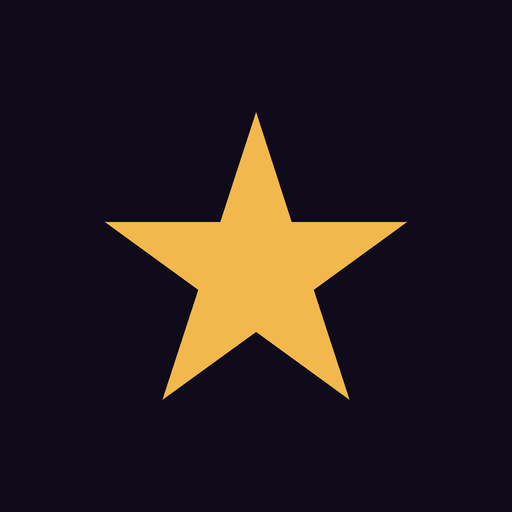
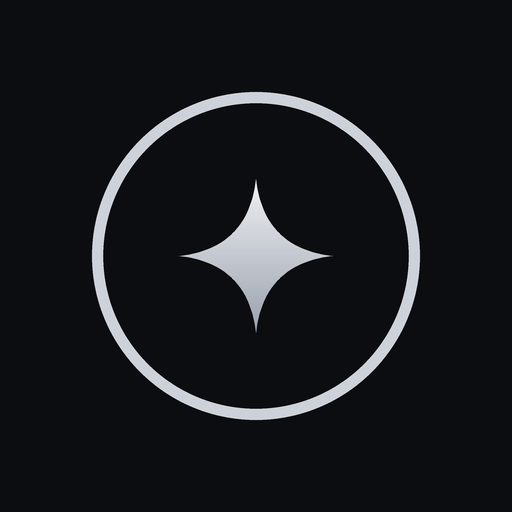
Visual sóbrio em grafite e prata; ícones novos; endereço /exec fixo no link de acesso

Changed region(s): [[0.1562, 0.1562, 0.8438, 0.8438]]

diff --git a/index.html b/index.html
@@ -4,7 +4,7 @@
 <meta charset="utf-8">
 <meta name="viewport" content="width=device-width, initial-scale=1, viewport-fit=cover">
 <title>IRAWÒ Financeiro</title>
-<meta name="theme-color" content="#0f0b1a">
+<meta name="theme-color" content="#0c0d10">
 <meta name="apple-mobile-web-app-capable" content="yes">
 <meta name="mobile-web-app-capable" content="yes">
 <meta name="apple-mobile-web-app-status-bar-style" content="black-translucent">
@@ -14,96 +14,102 @@
 <link rel="icon" href="icon-192.png">
 <style>
 :root{
-  --bg:#0f0b1a; --card:#1a1428; --card2:#241b38; --line:#33284d; --txt:#f3eefc; --mut:#a79cc4;
-  --gold:#f2b84b; --green:#3ecf8e; --red:#ff6b7a; --teal:#38c8d8; --violet:#9b7cff; --coral:#ff9a6b;
-  --r:16px;
+  --bg:#0c0d10; --card:#14161a; --card2:#1b1e23; --line:#262a31; --line2:#363b45;
+  --txt:#e8eaee; --mut:#8b929e; --silver:#cdd2da; --gold:#cdd2da;
+  --green:#86c5a4; --red:#e08a8a; --teal:#9db4cc; --violet:#a8afbf; --coral:#d4a98a;
+  --r:12px;
 }
 *{box-sizing:border-box;-webkit-tap-highlight-color:transparent}
-html,body{margin:0;background:var(--bg);color:var(--txt);font-family:-apple-system,BlinkMacSystemFont,"Segoe UI",Roboto,sans-serif;font-size:16px}
+html,body{margin:0;background:var(--bg);color:var(--txt);font-family:"Inter","SF Pro Text",-apple-system,BlinkMacSystemFont,"Segoe UI",Roboto,sans-serif;font-size:15px;-webkit-font-smoothing:antialiased}
 body{min-height:100vh;padding-bottom:calc(84px + env(safe-area-inset-bottom))}
 button,input,select,textarea{font:inherit;color:inherit}
-header.top{position:sticky;top:0;z-index:20;background:rgba(15,11,26,.92);backdrop-filter:blur(10px);padding:calc(10px + env(safe-area-inset-top)) 16px 10px;display:flex;align-items:center;gap:10px;border-bottom:1px solid var(--line)}
-header.top .logo{font-weight:800;letter-spacing:.08em;font-size:20px;color:var(--gold)}
-header.top .sub{color:var(--mut);font-size:13px;margin-left:auto}
-main{max-width:980px;margin:0 auto;padding:16px}
-h2{font-size:18px;margin:22px 0 10px}
+header.top{position:sticky;top:0;z-index:20;background:rgba(12,13,16,.88);backdrop-filter:blur(14px);padding:calc(12px + env(safe-area-inset-top)) 18px 12px;display:flex;align-items:center;gap:10px;border-bottom:1px solid var(--line)}
+header.top .logo{font-weight:600;letter-spacing:.34em;font-size:14px;background:linear-gradient(90deg,#f3f5f8,#98a0ad);-webkit-background-clip:text;background-clip:text;color:transparent}
+header.top .sub{color:var(--mut);font-size:11px;letter-spacing:.12em;text-transform:uppercase;margin-left:auto}
+main{max-width:980px;margin:0 auto;padding:18px 16px}
+h2{font-size:11px;font-weight:600;letter-spacing:.16em;text-transform:uppercase;color:var(--mut);margin:26px 0 10px}
 h2:first-child{margin-top:4px}
-.card{background:var(--card);border:1px solid var(--line);border-radius:var(--r);padding:14px}
+#modalBox h2,.lock h2{font-size:18px;font-weight:600;letter-spacing:0;text-transform:none;color:var(--txt)}
+.card{background:var(--card);border:1px solid var(--line);border-radius:var(--r);padding:16px;box-shadow:inset 0 1px 0 rgba(255,255,255,.03)}
 .grid{display:grid;gap:12px}
 .kpis{grid-template-columns:repeat(2,1fr)}
 @media(min-width:760px){.kpis{grid-template-columns:repeat(4,1fr)}.two{grid-template-columns:1fr 1fr}.three{grid-template-columns:repeat(3,1fr)}}
-.kpi .l{color:var(--mut);font-size:13px}
-.kpi .v{font-size:22px;font-weight:700;margin-top:4px;font-variant-numeric:tabular-nums}
-.kpi .s{color:var(--mut);font-size:12px;margin-top:2px}
-.pos{color:var(--green)}.neg{color:var(--red)}.gold{color:var(--gold)}.mut{color:var(--mut)}
-.mes{display:flex;align-items:center;justify-content:center;gap:14px;margin-bottom:14px}
-.mes b{min-width:170px;text-align:center}.mes b::first-letter{text-transform:uppercase}
-.icbtn{background:var(--card2);border:1px solid var(--line);border-radius:12px;width:40px;height:40px;font-size:18px;cursor:pointer}
-.btn{background:var(--gold);color:#1b1430;border:0;border-radius:12px;padding:12px 16px;font-weight:700;cursor:pointer}
-.btn.sec{background:var(--card2);color:var(--txt);border:1px solid var(--line)}
-.btn.danger{background:transparent;color:var(--red);border:1px solid var(--red)}
-.btn.sm{padding:8px 12px;font-size:14px;border-radius:10px}
-.btn.green{background:var(--green)}
-.btn[disabled]{opacity:.5}
+.kpi .l{color:var(--mut);font-size:11px;letter-spacing:.1em;text-transform:uppercase}
+.kpi .v{font-size:22px;font-weight:600;margin-top:8px;font-variant-numeric:tabular-nums;letter-spacing:-.01em}
+.kpi .s{color:var(--mut);font-size:12px;margin-top:3px}
+.pos{color:var(--green)}.neg{color:var(--red)}.gold{color:var(--silver)}.mut{color:var(--mut)}
+.mes{display:flex;align-items:center;justify-content:center;gap:14px;margin-bottom:16px}
+.mes b{min-width:170px;text-align:center;font-weight:600;letter-spacing:.02em}
+.mes b::first-letter{text-transform:uppercase}
+.icbtn{background:var(--card2);border:1px solid var(--line2);border-radius:10px;width:38px;height:38px;font-size:18px;cursor:pointer;color:var(--silver)}
+.btn{background:linear-gradient(180deg,#e6e9ee,#b4bac5);color:#101215;border:0;border-radius:10px;padding:12px 18px;font-weight:600;letter-spacing:.01em;cursor:pointer}
+.btn.sec{background:var(--card2);color:var(--txt);border:1px solid var(--line2)}
+.btn.danger{background:transparent;color:var(--red);border:1px solid rgba(224,138,138,.5)}
+.btn.sm{padding:8px 13px;font-size:13px;border-radius:9px}
+.btn.green{background:var(--green);color:#0b1510}
+.btn[disabled]{opacity:.45}
 .row{display:flex;gap:10px;align-items:center}
 .row.wrap{flex-wrap:wrap}
 .sp{flex:1}
-.chip{display:inline-block;padding:3px 9px;border-radius:99px;font-size:12px;background:var(--card2);color:var(--mut);border:1px solid var(--line)}
-.chip.red{color:var(--red);border-color:var(--red)}
-.chip.green{color:var(--green);border-color:var(--green)}
-.chip.gold{color:var(--gold);border-color:var(--gold)}
+.chip{display:inline-block;padding:2px 9px;border-radius:99px;font-size:11px;background:var(--card2);color:var(--mut);border:1px solid var(--line2);letter-spacing:.02em}
+.chip.red{color:var(--red);border-color:rgba(224,138,138,.5)}
+.chip.green{color:var(--green);border-color:rgba(134,197,164,.5)}
+.chip.gold{color:var(--silver);border-color:var(--line2)}
 .tabs{display:flex;gap:8px;margin-bottom:12px;flex-wrap:wrap}
-.tab{padding:8px 14px;border-radius:99px;background:var(--card2);border:1px solid var(--line);cursor:pointer;font-size:14px}
-.tab.on{background:var(--gold);color:#1b1430;border-color:var(--gold);font-weight:700}
-.item{padding:12px 0;border-bottom:1px solid var(--line);display:flex;gap:10px;align-items:center;cursor:pointer}
+.tab{padding:7px 15px;border-radius:99px;background:var(--card2);border:1px solid var(--line2);cursor:pointer;font-size:13px;color:var(--mut)}
+.tab.on{background:#e4e7ec;color:#101215;border-color:#e4e7ec;font-weight:600}
+.item{padding:13px 0;border-bottom:1px solid var(--line);display:flex;gap:10px;align-items:center;cursor:pointer}
 .item:last-child{border-bottom:0}
-.item .t{font-weight:600}
-.item .d{color:var(--mut);font-size:13px}
-.item .val{font-weight:700;font-variant-numeric:tabular-nums;white-space:nowrap}
-.bar{height:8px;border-radius:99px;background:var(--card2);overflow:hidden;margin:8px 0}
-.bar i{display:block;height:100%;background:linear-gradient(90deg,var(--green),var(--teal))}
+.item .t{font-weight:500}
+.item .d{color:var(--mut);font-size:12.5px;margin-top:2px}
+.item .val{font-weight:600;font-variant-numeric:tabular-nums;white-space:nowrap}
+.bar{height:5px;border-radius:99px;background:var(--card2);overflow:hidden;margin:10px 0}
+.bar i{display:block;height:100%;background:linear-gradient(90deg,#7d8696,#dfe3e9)}
 .svc{margin-bottom:12px}
 .svc .head{cursor:pointer}
-.parc{display:flex;align-items:center;gap:10px;padding:10px 0;border-top:1px solid var(--line);font-size:14px}
-label{display:block;font-size:13px;color:var(--mut);margin:10px 0 4px}
-input,select,textarea{width:100%;background:var(--card2);border:1px solid var(--line);border-radius:12px;padding:11px 12px;font-size:16px}
+.parc{display:flex;align-items:center;gap:10px;padding:11px 0;border-top:1px solid var(--line);font-size:14px}
+label{display:block;font-size:11px;letter-spacing:.08em;text-transform:uppercase;color:var(--mut);margin:12px 0 5px}
+input,select,textarea{width:100%;background:var(--card2);border:1px solid var(--line2);border-radius:10px;padding:11px 12px;font-size:16px}
+input:focus,select:focus,textarea:focus{outline:none;border-color:#8b929e}
 textarea{min-height:90px;resize:vertical}
 .field2{display:grid;grid-template-columns:1fr 1fr;gap:10px}
 .tiles{display:grid;grid-template-columns:repeat(2,1fr);gap:12px}
-.tile{background:var(--card);border:1px solid var(--line);border-radius:var(--r);padding:20px 10px;text-align:center;cursor:pointer;font-weight:600}
-.tile .e{font-size:34px;display:block;margin-bottom:6px}
-.tile small{display:block;color:var(--mut);font-weight:400;margin-top:2px}
-.tile.rec{border-color:var(--red);background:#2a1420}
-nav.bottom{position:fixed;bottom:0;left:0;right:0;z-index:30;background:rgba(21,16,36,.96);backdrop-filter:blur(12px);border-top:1px solid var(--line);display:flex;justify-content:space-around;padding:6px 6px calc(8px + env(safe-area-inset-bottom))}
-nav.bottom button{background:none;border:0;color:var(--mut);display:flex;flex-direction:column;align-items:center;gap:3px;font-size:11px;padding:6px 10px;cursor:pointer;min-width:58px}
-nav.bottom button.on{color:var(--gold)}
-nav.bottom svg{width:24px;height:24px;stroke:currentColor;fill:none;stroke-width:2;stroke-linecap:round;stroke-linejoin:round}
-nav.bottom button.mais{background:var(--gold);color:#1b1430;border-radius:50%;width:54px;height:54px;min-width:54px;margin-top:-22px;justify-content:center;box-shadow:0 6px 18px rgba(242,184,75,.35)}
-#modal{position:fixed;inset:0;z-index:50;background:rgba(5,3,12,.7);display:none;align-items:flex-end;justify-content:center}
+.tile{background:var(--card);border:1px solid var(--line);border-radius:var(--r);padding:22px 10px 18px;text-align:center;cursor:pointer;font-weight:500;box-shadow:inset 0 1px 0 rgba(255,255,255,.03)}
+.tile:active{background:var(--card2)}
+.tile .e{display:block;width:30px;height:30px;margin:0 auto 12px}
+.tile .e svg{width:30px;height:30px;stroke:var(--silver);fill:none;stroke-width:1.5;stroke-linecap:round;stroke-linejoin:round}
+.tile small{display:block;color:var(--mut);font-weight:400;font-size:12px;margin-top:3px}
+nav.bottom{position:fixed;bottom:0;left:0;right:0;z-index:30;background:rgba(16,17,21,.94);backdrop-filter:blur(14px);border-top:1px solid var(--line);display:flex;justify-content:space-around;padding:6px 6px calc(8px + env(safe-area-inset-bottom))}
+nav.bottom button{background:none;border:0;color:var(--mut);display:flex;flex-direction:column;align-items:center;gap:4px;font-size:10.5px;letter-spacing:.04em;padding:6px 10px;cursor:pointer;min-width:58px}
+nav.bottom button.on{color:var(--silver)}
+nav.bottom svg{width:22px;height:22px;stroke:currentColor;fill:none;stroke-width:1.6;stroke-linecap:round;stroke-linejoin:round}
+nav.bottom button.mais{background:linear-gradient(180deg,#eceef2,#a9b0bc);color:#101215;border-radius:50%;width:52px;height:52px;min-width:52px;margin-top:-20px;justify-content:center;box-shadow:0 6px 18px rgba(0,0,0,.55),0 0 0 4px var(--bg)}
+#modal{position:fixed;inset:0;z-index:50;background:rgba(4,5,7,.72);display:none;align-items:flex-end;justify-content:center}
 #modal.on{display:flex}
-#modal .box{background:var(--card);border-radius:20px 20px 0 0;width:100%;max-width:560px;max-height:92vh;overflow:auto;padding:18px 16px calc(20px + env(safe-area-inset-bottom));border:1px solid var(--line)}
-@media(min-width:760px){#modal{align-items:center}#modal .box{border-radius:20px}}
-#toast{position:fixed;left:50%;bottom:calc(100px + env(safe-area-inset-bottom));transform:translateX(-50%);background:#fff;color:#1b1430;padding:10px 16px;border-radius:12px;font-weight:600;z-index:80;display:none;max-width:90vw}
-#toast.err{background:var(--red);color:#fff}
-.lock{position:fixed;inset:0;z-index:100;background:var(--bg);display:flex;flex-direction:column;align-items:center;justify-content:center;padding:24px;gap:12px;text-align:center}
-.lock .star{font-size:64px;color:var(--gold)}
+#modal .box{background:var(--card);border-radius:16px 16px 0 0;width:100%;max-width:560px;max-height:92vh;overflow:auto;padding:20px 18px calc(22px + env(safe-area-inset-bottom));border:1px solid var(--line2)}
+@media(min-width:760px){#modal{align-items:center}#modal .box{border-radius:16px}}
+#toast{position:fixed;left:50%;bottom:calc(100px + env(safe-area-inset-bottom));transform:translateX(-50%);background:#e8eaee;color:#101215;padding:10px 16px;border-radius:10px;font-weight:600;font-size:14px;z-index:80;display:none;max-width:90vw;box-shadow:0 8px 24px rgba(0,0,0,.5)}
+#toast.err{background:#d98080;color:#150a0a}
+.lock{position:fixed;inset:0;z-index:100;background:radial-gradient(1200px 600px at 50% -10%,#1b1e25,var(--bg));display:flex;flex-direction:column;align-items:center;justify-content:center;padding:24px;gap:14px;text-align:center}
+.lock .mark{font-size:26px;font-weight:600;letter-spacing:.42em;margin-right:-.42em;background:linear-gradient(90deg,#f3f5f8,#98a0ad);-webkit-background-clip:text;background-clip:text;color:transparent;margin-bottom:6px}
 .lock input{max-width:320px;text-align:center}
-.rev{border:1px solid var(--gold);border-radius:var(--r);padding:14px;margin-bottom:12px;background:var(--card)}
-.spin{width:22px;height:22px;border:3px solid var(--line);border-top-color:var(--gold);border-radius:50%;animation:g 0.8s linear infinite;display:inline-block;vertical-align:middle}
+.rev{border:1px solid var(--line2);border-left:3px solid var(--silver);border-radius:var(--r);padding:16px;margin-bottom:12px;background:var(--card)}
+.spin{width:20px;height:20px;border:2px solid var(--line2);border-top-color:var(--silver);border-radius:50%;animation:g .8s linear infinite;display:inline-block;vertical-align:middle}
 @keyframes g{to{transform:rotate(360deg)}}
-.rec-dot{width:12px;height:12px;border-radius:50%;background:var(--red);display:inline-block;animation:p 1s infinite}
+.rec-dot{width:11px;height:11px;border-radius:50%;background:var(--red);display:inline-block;animation:p 1s infinite}
 @keyframes p{50%{opacity:.25}}
 canvas{max-width:100%}
 .grid>*,.row>*{min-width:0}
 .kpi .v{overflow-wrap:anywhere}
 @media(max-width:360px){.kpi .v{font-size:18px}main{padding:12px}}
-.empty{text-align:center;color:var(--mut);padding:26px 10px}
-.hint{font-size:13px;color:var(--mut);line-height:1.45}
-details summary{cursor:pointer;color:var(--gold);margin:8px 0}
+.empty{text-align:center;color:var(--mut);padding:28px 10px;line-height:1.5}
+.hint{font-size:13px;color:var(--mut);line-height:1.5}
+details summary{cursor:pointer;color:var(--silver);margin:8px 0}
+a{color:var(--silver)}
 </style>
 </head>
 <body>
-<header class="top"><span class="logo">★ IRAWÒ</span><span class="sub" id="subtitulo">Controle financeiro</span></header>
+<header class="top"><span class="logo">IRAWÒ</span><span class="sub" id="subtitulo">Controle financeiro</span></header>
 <main id="view"></main>
 <nav class="bottom" id="nav"></nav>
 <div id="modal"><div class="box" id="modalBox"></div></div>
@@ -226,7 +232,7 @@ function render() {
   const v = $('#view');
   if (!cfg && view !== 'ajustes') { view = 'ajustes'; renderNav(); }
   v.innerHTML = ({ inicio: vInicio, receber: vReceber, lancar: vLancar, extrato: vExtrato, ajustes: vAjustes }[view])();
-  $('#subtitulo').textContent = cfg && cfg.url === 'demo' ? 'MODO DEMONSTRAÇÃO' : 'Controle financeiro';
+  $('#subtitulo').textContent = cfg && cfg.url === 'demo' ? 'Modo demonstração' : 'Financeiro';
   if (view === 'inicio') desenharGraficos();
 }
 
@@ -237,9 +243,9 @@ function vInicio() {
   const hj = L.hojeDe(), r = L.resumo(rows, mesSel, hj);
   const ultimos = rows.slice().sort((a, b) => String(b.data_pagamento || b.vencimento).localeCompare(String(a.data_pagamento || a.vencimento))).filter(x => x.status === 'pago').slice(0, 6);
   let alertas = '';
-  if (r.vencidoReceber > 0) alertas += `<div class="card" style="border-color:var(--red);margin-bottom:10px">⚠ <b class="neg">${brl(r.vencidoReceber)}</b> a receber está <b>atrasado</b>. <a href="#" data-go="receber" style="color:var(--gold)">Ver contas</a></div>`;
-  if (r.vencidoPagar > 0) alertas += `<div class="card" style="border-color:var(--coral);margin-bottom:10px">⚠ <b>${brl(r.vencidoPagar)}</b> de contas a pagar vencidas.</div>`;
-  if (r.proximos7Receber > 0) alertas += `<div class="card" style="margin-bottom:10px">📅 <b class="gold">${brl(r.proximos7Receber)}</b> vence nos próximos 7 dias.</div>`;
+  if (r.vencidoReceber > 0) alertas += `<div class="card" style="border-color:var(--red);margin-bottom:10px"><b class="neg">${brl(r.vencidoReceber)}</b> a receber está <b>atrasado</b>. <a href="#" data-go="receber" style="color:var(--gold)">Ver contas</a></div>`;
+  if (r.vencidoPagar > 0) alertas += `<div class="card" style="border-color:var(--coral);margin-bottom:10px"><b>${brl(r.vencidoPagar)}</b> de contas a pagar vencidas.</div>`;
+  if (r.proximos7Receber > 0) alertas += `<div class="card" style="margin-bottom:10px"><b class="gold">${brl(r.proximos7Receber)}</b> vence nos próximos 7 dias.</div>`;
   return `
   <div class="mes"><button class="icbtn" data-mes="-1">‹</button><b>${L.rotuloMes(mesSel)}</b><button class="icbtn" data-mes="1">›</button></div>
   ${alertas}
@@ -269,22 +275,22 @@ function itemHtml(r) {
   const atrasado = r.status === 'pendente' && r.vencimento < L.hojeDe();
   return `<div class="item" data-edit="${esc(r.id)}"><div class="sp"><div class="t">${esc(r.descricao || r.categoria)}</div><div class="d">${esc(r.pessoa ? r.pessoa + ' · ' : '')}${esc(data)}${parc}${atrasado ? ' <span class="chip red">atrasada</span>' : ''}${r.status === 'pendente' && !atrasado ? ' <span class="chip">pendente</span>' : ''}</div></div><div class="val ${rec ? 'pos' : 'neg'}">${rec ? '+' : '−'} ${brl(r.valor)}</div></div>`;
 }
-const PALETA = ['#f2b84b', '#38c8d8', '#ff9a6b', '#9b7cff', '#3ecf8e', '#ff6b7a', '#7dd3fc', '#c4b5fd', '#fda4af'];
+const PALETA = ['#d5d9e0', '#9aa3b2', '#6f7a8b', '#b9c0cc', '#4d5666', '#e6e9ee', '#8590a1', '#3b4351', '#a5aebb'];
 function desenharGraficos() {
   if (typeof Chart === 'undefined') return;
-  Chart.defaults.color = '#a79cc4'; Chart.defaults.borderColor = '#33284d';
+  Chart.defaults.color = '#8b929e'; Chart.defaults.borderColor = '#262a31'; Chart.defaults.font.size = 11; Chart.defaults.font.family = '-apple-system, "Segoe UI", Roboto, sans-serif';
   const s = L.serieMeses(rows, mesSel, 6);
   charts.push(new Chart($('#gSerie'), { type: 'bar', data: { labels: s.meses.map(L.rotuloMesCurto), datasets: [
-    { label: 'Levantado', data: s.recebido, backgroundColor: '#3ecf8e', borderRadius: 6 },
-    { label: 'Gastos', data: s.gasto, backgroundColor: '#ff6b7a', borderRadius: 6 }] },
+    { label: 'Levantado', data: s.recebido, backgroundColor: '#86c5a4', borderRadius: 4 },
+    { label: 'Gastos', data: s.gasto, backgroundColor: '#c98080', borderRadius: 4 }] },
     options: { maintainAspectRatio: false, plugins: { legend: { position: 'bottom' } }, scales: { y: { ticks: { callback: v => 'R$ ' + v } } } } }));
   const r = L.resumo(rows, mesSel), cats = Object.entries(r.porCategoria).sort((a, b) => b[1] - a[1]);
-  if (cats.length) charts.push(new Chart($('#gCat'), { type: 'doughnut', data: { labels: cats.map(c => c[0]), datasets: [{ data: cats.map(c => c[1]), backgroundColor: PALETA, borderColor: '#1a1428', borderWidth: 2 }] },
+  if (cats.length) charts.push(new Chart($('#gCat'), { type: 'doughnut', data: { labels: cats.map(c => c[0]), datasets: [{ data: cats.map(c => c[1]), backgroundColor: PALETA, borderColor: '#14161a', borderWidth: 2 }] },
     options: { maintainAspectRatio: false, plugins: { legend: { position: 'right', labels: { boxWidth: 12, font: { size: 11 } } }, tooltip: { callbacks: { label: c => `${c.label}: ${brl(c.parsed)}` } } } } }));
   else $('#gCat').parentElement.innerHTML = '<div class="empty">Sem gastos pagos neste mês.</div>';
   const p = L.previsao(rows, L.mesDe(L.hojeDe()), 6);
   const labels = ['Atrasado', ...p.meses.map(L.rotuloMesCurto)], vals = [p.atrasado, ...p.valores];
-  charts.push(new Chart($('#gPrev'), { type: 'bar', data: { labels, datasets: [{ data: vals, backgroundColor: vals.map((_, i) => i === 0 ? '#ff6b7a' : '#f2b84b'), borderRadius: 6 }] },
+  charts.push(new Chart($('#gPrev'), { type: 'bar', data: { labels, datasets: [{ data: vals, backgroundColor: vals.map((_, i) => i === 0 ? '#c98080' : '#aeb5c1'), borderRadius: 4 }] },
     options: { maintainAspectRatio: false, plugins: { legend: { display: false } }, scales: { y: { ticks: { callback: v => 'R$ ' + v } } } } }));
 }
 
@@ -302,7 +308,7 @@ function vReceber() {
     ${kpi('Próximos 7 dias', p7, '')}
   </div>
   <div class="row" style="margin:14px 0 6px"><h2 style="margin:0">${rec ? 'Serviços e parcelas' : 'Contas parceladas'}</h2><span class="sp"></span><label style="margin:0;display:flex;gap:6px;align-items:center"><input type="checkbox" id="chkQ" ${verQuitados ? 'checked' : ''} style="width:auto"> mostrar quitados</label></div>
-  ${gs.length ? gs.map(svcHtml).join('') : `<div class="empty">Nada ${rec ? 'a receber' : 'a pagar'} por enquanto. 🎉<br>Lance um serviço parcelado no <b>+</b>.</div>`}`;
+  ${gs.length ? gs.map(svcHtml).join('') : `<div class="empty">Nada ${rec ? 'a receber' : 'a pagar'} por enquanto.<br>Lance um serviço parcelado no <b>+</b>.</div>`}`;
 }
 function svcHtml(g) {
   const aberto = abertos.has(g.gid);
@@ -344,10 +350,10 @@ function vLancar() {
   return `
   <h2>Como você quer lançar?</h2>
   <div class="tiles">
-    <div class="tile" data-lanc="audio"><span class="e">🎤</span>Falar<small>"Recebi 500 da Maria…"</small></div>
-    <div class="tile" data-lanc="foto"><span class="e">📷</span>Foto<small>nota, recibo, comprovante</small></div>
-    <div class="tile" data-lanc="video"><span class="e">🎥</span>Vídeo<small>curto, até ~20 MB</small></div>
-    <div class="tile" data-lanc="texto"><span class="e">✍</span>Escrever<small>digite e a IA organiza</small></div>
+    <div class="tile" data-lanc="audio"><span class="e"><svg viewBox="0 0 24 24"><rect x="9" y="3" width="6" height="11" rx="3"/><path d="M5 11a7 7 0 0 0 14 0M12 18v3"/></svg></span>Falar<small>"Recebi 500 da Maria…"</small></div>
+    <div class="tile" data-lanc="foto"><span class="e"><svg viewBox="0 0 24 24"><path d="M4 8h3l2-2h6l2 2h3v11H4z"/><circle cx="12" cy="13" r="3.5"/></svg></span>Foto<small>nota, recibo, comprovante</small></div>
+    <div class="tile" data-lanc="video"><span class="e"><svg viewBox="0 0 24 24"><rect x="3" y="6" width="13" height="12" rx="2"/><path d="M16 10l5-3v10l-5-3z"/></svg></span>Vídeo<small>curto, até ~20 MB</small></div>
+    <div class="tile" data-lanc="texto"><span class="e"><svg viewBox="0 0 24 24"><path d="M4 20h4L19 9l-4-4L4 16z"/></svg></span>Escrever<small>digite e a IA organiza</small></div>
   </div>
   <div class="row" style="margin-top:14px"><button class="btn sec sp" data-lanc="manual">Lançamento manual</button></div>
   <div class="card hint" style="margin-top:14px"><b>Exemplos para falar ou escrever:</b><br>
@@ -367,7 +373,7 @@ function itemRevisaoHtml(it, i) {
   const cats = L.CATEGORIAS[it.tipo === 'despesa' ? 'despesa' : 'receita'];
   const catsOk = cats.includes(it.categoria) ? cats : [it.categoria, ...cats].filter(Boolean);
   return `<div class="rev" data-i="${i}">
-    <div class="row"><b>${it.tipo === 'despesa' ? '🔴 Gasto' : '🟢 Receita'}</b><span class="sp"></span><button class="btn danger sm" data-rdel="${i}">Remover</button></div>
+    <div class="row"><b class="${it.tipo === 'despesa' ? 'neg' : 'pos'}">${it.tipo === 'despesa' ? 'Gasto' : 'Receita'}</b><span class="sp"></span><button class="btn danger sm" data-rdel="${i}">Remover</button></div>
     <div class="tabs" style="margin-top:8px"><div class="tab ${it.tipo !== 'despesa' ? 'on' : ''}" data-rset="${i}:tipo:receita">Receita</div><div class="tab ${it.tipo === 'despesa' ? 'on' : ''}" data-rset="${i}:tipo:despesa">Gasto</div></div>
     <label>Descrição</label><input data-rf="${i}:descricao" value="${esc(it.descricao)}">
     <label>${it.tipo === 'despesa' ? 'Fornecedor' : 'Cliente'}</label><input data-rf="${i}:pessoa" value="${esc(it.pessoa)}">
@@ -383,7 +389,7 @@ function itemRevisaoHtml(it, i) {
 }
 function vRevisao() {
   return `<h2>Confira antes de salvar</h2>
-  ${revisao.mensagem ? `<div class="card hint" style="margin-bottom:12px">🤖 ${esc(revisao.mensagem)}</div>` : ''}
+  ${revisao.mensagem ? `<div class="card hint" style="margin-bottom:12px">${esc(revisao.mensagem)}</div>` : ''}
   ${revisao.itens.map(itemRevisaoHtml).join('') || '<div class="empty">Nenhum lançamento reconhecido.</div>'}
   <div class="row wrap"><button class="btn sec" data-radd>+ Outro item</button><span class="sp"></span><button class="btn sec" data-rcancel>Cancelar</button><button class="btn green" data-rsave ${revisao.itens.length ? '' : 'disabled'}>Salvar ${revisao.itens.length > 1 ? 'tudo' : ''}</button></div>`;
 }
@@ -393,7 +399,7 @@ function itemVazio(tipo) {
 function vSugestaoBaixa() {
   const b = sugestaoBaixa;
   return `<h2>Dar baixa em qual parcela?</h2>
-  <div class="card hint" style="margin-bottom:12px">🤖 ${esc(b.mensagem || 'Encontrei estas parcelas pendentes.')}</div>
+  <div class="card hint" style="margin-bottom:12px">${esc(b.mensagem || 'Encontrei estas parcelas pendentes.')}</div>
   ${b.candidatos.length ? b.candidatos.map(p => `<div class="card" style="margin-bottom:10px"><b>${esc(p.descricao)}</b> <span class="mut">· ${esc(p.pessoa)}</span><div class="mut" style="font-size:13px">Parcela ${p.parcela}/${p.total_parcelas} · vence ${L.fmtBR(p.vencimento)}</div>
     <div class="row" style="margin-top:8px"><b class="gold sp">${brl(p.valor)}</b><button class="btn green sm" data-baixa="${esc(p.id)}" data-sug="1">Dar baixa</button></div></div>`).join('') : '<div class="empty">Não achei parcela pendente com esses dados. Veja em <b>Contas</b>.</div>'}
   <button class="btn sec" data-rcancel>Voltar</button>`;
@@ -485,7 +491,7 @@ function vAjustes() {
   return `
   <h2>Conexão com a planilha</h2>
   <div class="card">
-    ${cfg ? `<p class="${cfg.url === 'demo' ? 'gold' : 'pos'}" style="margin-top:0">${cfg.url === 'demo' ? '🧪 Modo demonstração (dados só neste aparelho)' : '✅ Conectado à planilha IRAWÒ'}</p>` : '<p class="neg" style="margin-top:0">Ainda não conectado.</p>'}
+    ${cfg ? `<p class="${cfg.url === 'demo' ? 'gold' : 'pos'}" style="margin-top:0">${cfg.url === 'demo' ? 'Modo demonstração (dados só neste aparelho)' : 'Conectado à planilha IRAWÒ'}</p>` : '<p class="neg" style="margin-top:0">Ainda não conectado.</p>'}
     <details ${cfg ? '' : 'open'}><summary>Configurar manualmente</summary>
       <label>Endereço do script (URL)</label><input id="cfgUrl" value="${esc(cfg && cfg.url !== 'demo' ? cfg.url : '')}" placeholder="https://script.google.com/macros/s/…/exec">
       <label>Código de acesso (token)</label><input id="cfgTok" type="password" value="${esc(cfg && cfg.url !== 'demo' ? cfg.token : '')}">
@@ -508,8 +514,8 @@ function vAjustes() {
 }
 async function atualizaStatusIA() {
   const el = $('#statusIA'); if (!el || !cfg) return;
-  try { const j = await api('status'); el.innerHTML = j.temChave ? '✅ Chave configurada (' + esc(j.modelo) + ')' : '⚠ Chave ainda não configurada.'; }
-  catch (e) { el.textContent = '⚠ ' + e.message; }
+  try { const j = await api('status'); el.innerHTML = j.temChave ? 'Chave configurada (' + esc(j.modelo) + ')' : 'Chave ainda não configurada.'; }
+  catch (e) { el.textContent = e.message; }
 }
 async function hashSenha(pw, saltB64) {
   const k = await crypto.subtle.importKey('raw', new TextEncoder().encode(pw), 'PBKDF2', false, ['deriveBits']);
@@ -543,11 +549,11 @@ function telaBloqueio() {
   $('#view').inert = $('#nav').inert = bloqueado;
   if (!bloqueado) { host.innerHTML = ''; return; }
   const temBio = a && a.cred && window.PublicKeyCredential;
-  host.innerHTML = a ? `<div class="lock"><div class="star">★</div><h2 style="margin:0">IRAWÒ</h2><div class="mut">Digite sua senha</div>
+  host.innerHTML = a ? `<div class="lock"><div class="mark">IRAWÒ</div><div class="mut">Digite sua senha</div>
       <input id="lkPw" type="password" autocomplete="current-password" placeholder="senha"><div id="lkErr" class="neg" style="min-height:20px"></div>
       <button class="btn" id="lkOk" style="min-width:200px">Entrar</button>
-      ${temBio ? '<button class="btn sec" id="lkBio" style="min-width:200px">🔐 Digital / rosto</button>' : ''}</div>`
-    : `<div class="lock"><div class="star">★</div><h2 style="margin:0">Bem-vindo ao IRAWÒ</h2><div class="mut" style="max-width:320px">Crie uma senha para proteger o app neste aparelho.</div>
+      ${temBio ? '<button class="btn sec" id="lkBio" style="min-width:200px">Digital / rosto</button>' : ''}</div>`
+    : `<div class="lock"><div class="mark">IRAWÒ</div><h2 style="margin:0">Bem-vindo</h2><div class="mut" style="max-width:320px">Crie uma senha para proteger o app neste aparelho.</div>
       <input id="lkPw" type="password" autocomplete="new-password" placeholder="nova senha (mín. 4 caracteres)">
       <input id="lkPw2" type="password" autocomplete="new-password" placeholder="repita a senha"><div id="lkErr" class="neg" style="min-height:20px"></div>
       <button class="btn" id="lkNovo" style="min-width:200px">Criar senha</button></div>`;
@@ -647,7 +653,7 @@ document.addEventListener('click', async e => {
   }
   if (t.id === 'salvaCfg') {
     const url = $('#cfgUrl').value.trim(), token = $('#cfgTok').value.trim();
-    if (!/^https:\/\/script\.google\.com\//.test(url) || !token) return toast('Informe a URL do script e o token.', true);
+    if (!/^https:\/\/script\.google\.com\/macros\/s\/[^/]+\/exec$/.test(url) || !token) return toast('Informe o endereço do script (terminado em /exec) e o código de acesso.', true);
     const antes = cfg; cfg = { url, token };
     try { await api('status'); ls.set('irawo_cfg', cfg); toast('Conectado!'); await carregar(); } catch (er) { cfg = antes; toast(er.message, true); }
     return render();
@@ -722,13 +728,14 @@ render = function () { _render(); if (view === 'ajustes') atualizaStatusIA(); };
   // link de configuração: #cfg=base64({u,t}) — vale uma vez e some da barra de endereço
   try {
     const m = location.hash.match(/cfg=([^&]+)/);
-    if (m) { const o = JSON.parse(decodeURIComponent(escape(atob(decodeURIComponent(m[1]))))); if (o.u && o.t) { cfg = { url: o.u, token: o.t }; ls.set('irawo_cfg', cfg); rows = []; ls.del('irawo_cache'); }
+    if (m) { const o = JSON.parse(decodeURIComponent(escape(atob(decodeURIComponent(m[1]))))); if (o.u && o.t && /\/dev$/.test(o.u)) window.__cfgErro = 'Link com endereço de teste. Gere o link de novo na planilha.'; else if (o.u && o.t) { cfg = { url: o.u, token: o.t }; ls.set('irawo_cfg', cfg); rows = []; ls.del('irawo_cache'); }
       history.replaceState(null, '', location.pathname + location.search); }
   } catch {}
   if ('serviceWorker' in navigator && location.protocol.startsWith('http')) navigator.serviceWorker.register('sw.js').catch(() => {});
   bloqueado = !!ls.get('irawo_auth') || true;
   telaBloqueio();
   render();
+  if (window.__cfgErro) toast(window.__cfgErro, true);
 })();
 </script>
 </body>
